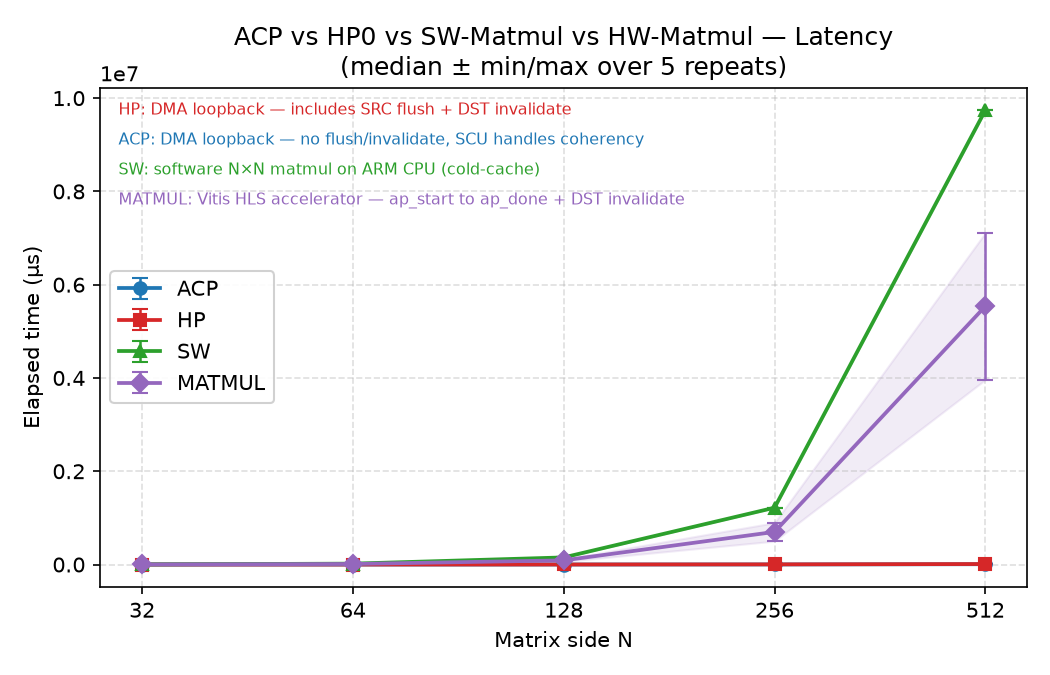
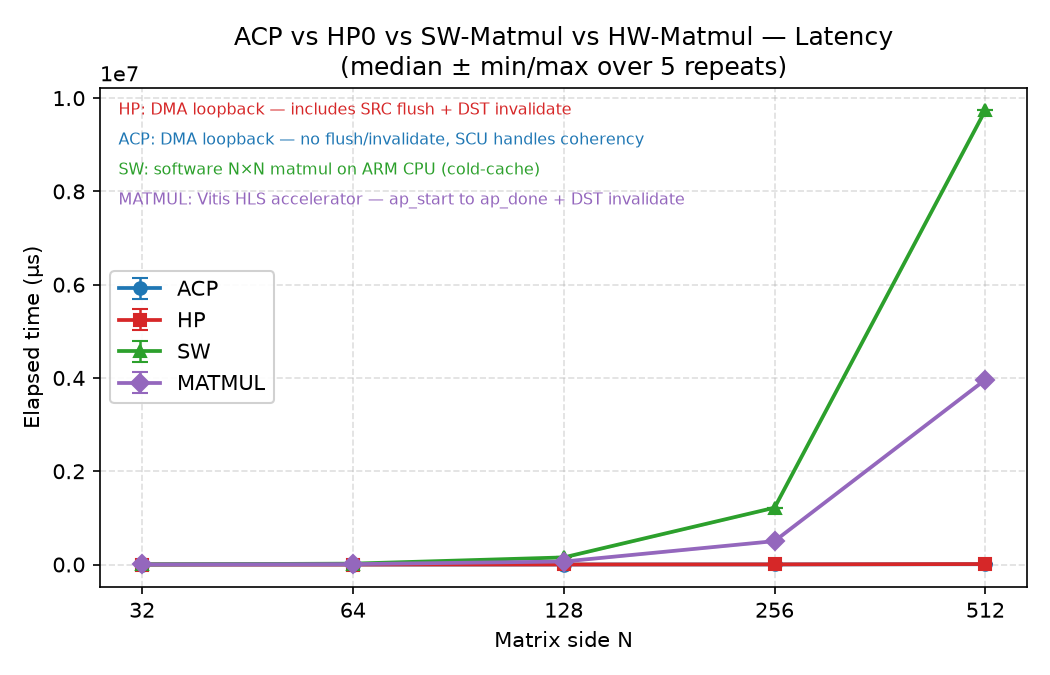
corrected numbers in README.md

diff --git a/analysis/figures5-hwAccelerator3-tiling-v2/README.md b/analysis/figures5-hwAccelerator3-tiling-v2/README.md
@@ -1,77 +1,85 @@
-figures5-hwAccelerator3-tiling-v2/ — Benchmark Results: ACP + HP0 + SW + HW Matmul v3 (FETCH_TILE=8)
-=======================================================================================================
-Board:   Digilent Zybo Z7-20 (XC7Z020-1CLG400C)
-Log:     results_with_hw4.txt + results_with_sw (UART capture, 115200 8N1)
-Authors: Brunda Marpadaga, Bhavana Marpadaga
+# figures5 — HW Matmul v3 (FETCH_TILE=8) Benchmark Results
 
-This folder contains plots from the fifth benchmark run. HW v3 introduces a two-level
-tiling scheme in the matmul_0 HLS kernel:
+**Board:** Digilent Zybo Z7-20 (XC7Z020-1CLG400C)  
+**Logs:** `results_with_hw4.txt` + `results_with_sw` (UART capture, 115200 8N1)  
+**Authors:** Brunda Marpadaga, Bhavana Marpadaga
 
-  FETCH_TILE = 8  — DDR fetch tile: 8x8 = 64 floats fetched per AXI round-trip
-  TILE       = 4  — Compute sub-tile: 4x4 unrolled MAC engine (DSP count unchanged)
-  T_TILE     = 16 — Transpose tile: 16x16 block for the B→B_T transpose step
+This folder contains plots from the fifth benchmark run. HW v3 introduces a two-level tiling scheme in the `matmul_0` HLS kernel:
 
-N must be a multiple of 16 (max of FETCH_TILE and T_TILE). Benchmark sweep sizes
-N=32,64,128,256,512 all satisfy this constraint. The correctness check was updated
-from N=4 (unsupported — smaller than FETCH_TILE) to N=32.
+| Constant | Value | Role |
+|----------|-------|------|
+| `FETCH_TILE` | 8 | DDR fetch tile — 8×8 = 64 floats fetched per AXI round-trip |
+| `TILE` | 4 | Compute sub-tile — 4×4 unrolled MAC engine (DSP count unchanged) |
+| `T_TILE` | 16 | Transpose tile — 16×16 block for the B→B_T transpose step |
 
-Files
------
-latency.png      Time (us) vs matrix side N for all four modes.
-                   ACP    — DMA loopback via ACP (coherent, no flush)
-                   HP     — DMA loopback via HP0 (flush + invalidate)
-                   SW     — Software N×N matmul on ARM Cortex-A9, cold-cache
-                   MATMUL — HW v3 tiled accelerator (matmul_0, FETCH_TILE=8)
+> **N must be a multiple of 16** (max of `FETCH_TILE` and `T_TILE`). Benchmark sweep sizes N=32,64,128,256,512 all satisfy this. The correctness check was updated from N=4 (unsupported) to N=32.
 
-l1_hit_rate.png  L1 D-cache hit rate (%) vs N.
-l2_hit_rate.png  PL310 L2 cache hit rate (%) vs N.
-speedup.png      HP, SW, MATMUL elapsed time normalised to ACP elapsed time.
-l1_misses.png    Raw L1 D-cache miss count vs N for each mode.
-hw_comparison.png  HW v2 vs HW v3 vs SW latency and speedup bar chart.
+---
 
-Median Latency Results
-----------------------
-  N     ACP (us)   HP (us)   SW (us)    HW v3 (us)
-  ---   --------   -------   --------   ----------
-   32         32        58      2,421        1,590
-   64        112       211     19,121       11,661
-  128        429       828    152,666       89,329
-  256      1,698     3,236  1,218,443      699,515
-  512      6,773    10,656  9,740,454    5,538,054
+## Files
 
-HW v3 vs HW v2 (FETCH_TILE=4 → FETCH_TILE=8)
-----------------------------------------------
-Larger fetch tile reduces DDR round-trips — the same TILE=4 compute engine now
-processes a bigger on-chip block before going back to DDR, improving bandwidth
-utilisation without increasing DSP count.
+| File | Description |
+|------|-------------|
+| `latency.png` | Elapsed time (µs) vs matrix side N for ACP, HP, SW, MATMUL |
+| `l1_hit_rate.png` | L1 D-cache hit rate (%) vs N |
+| `l2_hit_rate.png` | PL310 L2 cache hit rate (%) vs N |
+| `speedup.png` | HP, SW, MATMUL latency normalised to ACP |
+| `l1_misses.png` | Raw L1 D-cache miss count vs N |
+| `hw_comparison.png` | HW v2 vs HW v3 vs SW latency and speedup bar chart |
 
-  N     HW v2 (us)   HW v3 (us)   Speedup (v2/v3)
-  ---   ----------   ----------   ---------------
-   32        1,985        1,590           1.25x
-   64       14,776       11,661           1.27x
-  128      114,070       89,329           1.28x
-  256      896,958      699,515           1.28x
-  512    7,113,180    5,538,054           1.28x
+---
 
-HW v3 vs SW Matmul
--------------------
-  N     SW (us)      HW v3 (us)   HW speedup over SW
-  ---   ----------   ----------   ------------------
-   32        2,421        1,590           1.52x
-   64       19,121       11,661           1.64x
-  128      152,666       89,329           1.71x
-  256    1,218,443      699,515           1.74x
-  512    9,740,454    5,538,054           1.76x
+## Median Latency Results
 
-Cache Behaviour (HW v3)
-------------------------
-L1 hit rate: 100% — tiled access keeps working set in L1 during inner loops.
-L2 hit rate: ~50% — B_T rows reused across the tile, hitting L2 on repeated access.
+| N | ACP (µs) | HP (µs) | SW (µs) | HW v3 (µs) |
+|---|----------|---------|---------|------------|
+| 32 | 32 | 58 | 2,421 | 1,194 |
+| 64 | 112 | 211 | 19,121 | 8,545 |
+| 128 | 429 | 828 | 152,666 | 64,588 |
+| 256 | 1,697 | 3,236 | 1,218,443 | 502,071 |
+| 512 | 6,772 | 10,655 | 9,740,454 | 3,962,935 |
 
-Comparison Context
-------------------
-analysis/figures - no accelerator/         DMA baseline (ACP + HP0)
-analysis/figures2 - sw accelerator/        Adds SW matmul
-analysis/figures3 - hw accelerator 1/      HW v1 (untiled, ~12x slower than v2)
-analysis/figures4-hwAccelerator2-tiling/   HW v2 (TILE=FETCH_TILE=4)
-analysis/figures5-hwAccelerator3-tiling-v2/  This folder — HW v3 (FETCH_TILE=8)
+---
+
+## HW v3 vs HW v2 (FETCH_TILE=4 → FETCH_TILE=8)
+
+Larger fetch tile reduces DDR round-trips — the same TILE=4 compute engine now processes a bigger on-chip block before going back to DDR, improving bandwidth utilisation without increasing DSP count.
+
+| N | HW v2 (µs) | HW v3 (µs) | Speedup |
+|---|-----------|-----------|---------|
+| 32 | 1,985 | 1,194 | **1.66×** |
+| 64 | 14,776 | 8,545 | **1.73×** |
+| 128 | 114,070 | 64,588 | **1.77×** |
+| 256 | 896,958 | 502,071 | **1.79×** |
+| 512 | 7,113,180 | 3,962,935 | **1.79×** |
+
+---
+
+## HW v3 vs SW Matmul
+
+| N | SW (µs) | HW v3 (µs) | Speedup |
+|---|---------|-----------|---------|
+| 32 | 2,421 | 1,194 | **2.03×** |
+| 64 | 19,121 | 8,545 | **2.24×** |
+| 128 | 152,666 | 64,588 | **2.36×** |
+| 256 | 1,218,443 | 502,071 | **2.43×** |
+| 512 | 9,740,454 | 3,962,935 | **2.46×** |
+
+---
+
+## Cache Behaviour (HW v3)
+
+- **L1 hit rate: 100%** — tiled access keeps the working set in L1 during inner loops
+- **L2 hit rate: ~49–50%** — B_T rows reused across the tile, hitting L2 on repeated access
+
+---
+
+## Comparison Context
+
+| Folder | Contents |
+|--------|----------|
+| `figures - no accelerator/` | DMA baseline (ACP + HP0 only) |
+| `figures2 - sw accelerator/` | Adds SW matmul |
+| `figures3 - hw accelerator 1/` | HW v1 — untiled (~12× slower than v2) |
+| `figures4-hwAccelerator2-tiling/` | HW v2 — TILE=FETCH_TILE=4 |
+| `figures5-hwAccelerator3-tiling-v2/` | **This folder** — HW v3, FETCH_TILE=8 |
